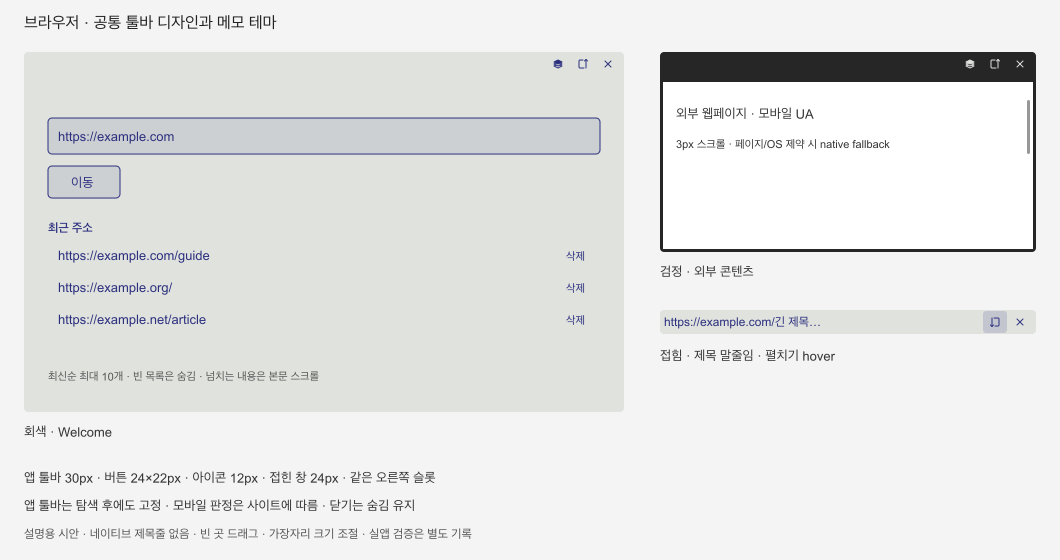
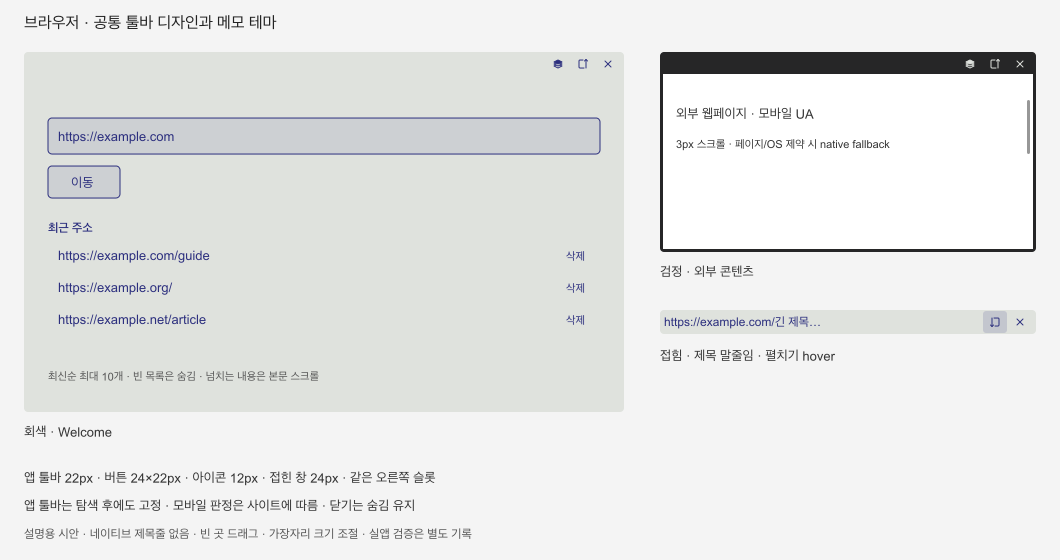
네 유형의 메모 툴바를 22px로 통일하고 브라우저 본문 여백을 제거

Changed region(s): [[0.6226, 0.1214, 0.9962, 0.1518], [0.0623, 0.85, 0.0934, 0.8804]]

diff --git a/ui/style.css b/ui/style.css
@@ -114,8 +114,8 @@ body.folded #toolbar-items { overflow: visible; }
   #controls button:focus-visible { outline-color: Highlight; }
 }
 
-/* Persistent toolbar row, shared by text, capture and terminal windows. */
-#controls { position: relative; top: auto; right: auto; flex: 0 0 30px; width: 100%; max-width: 100%; height: 30px; padding: 2px 3px; border-radius: 0; opacity: 1; pointer-events: auto; }
+/* Persistent toolbar row shared by all memo types. */
+#controls { position: relative; top: auto; right: auto; flex: 0 0 var(--toolbar-row-height); width: 100%; max-width: 100%; height: var(--toolbar-row-height); padding: 0 3px; border-radius: 0; opacity: 1; pointer-events: auto; }
 body #controls { opacity: 1; pointer-events: auto; }
 #chrome-title { display: none; min-width: 0; flex: 1; overflow: hidden; text-overflow: ellipsis; white-space: nowrap; font-size: 11px; }
 #toolbar-items { margin-left: auto; }
@@ -167,8 +167,7 @@ body.toolbar-collapsed header { height: 22px; min-height: 22px; }
 
 body.toolbar-collapsed > #controls { margin: 1px 0; }
 
-/* Keep the collapsed bar's icon geometry in both states. The remaining 8px
-   of the expanded row belongs to the content separator, below the buttons. */
+/* Both states use the same compact icon and button geometry. */
 #controls { --icon-size: 12px; padding: 0 3px; align-items: flex-start; }
 #controls button { height: 22px; min-height: 22px; padding: 0; }
 body.toolbar-collapsed #controls { align-items: flex-start; }
@@ -176,10 +175,7 @@ body.toolbar-collapsed #controls { align-items: flex-start; }
   background: color-mix(in srgb, var(--foreground) 16%, var(--background));
 }
 
-/* Text editing and capture chrome share the compact toolbar row. */
-
 /* One permanent editable surface; dirty state never changes the layout. */
-body.text-note:not(.toolbar-collapsed) #controls { flex-basis: 22px; height: 22px; }
 body.text-note:not(.folded) #viewport { padding-top: 0; }
 #editor { display: flex; flex-direction: column; height: auto; min-height: 100%; cursor: text; user-select: text; -webkit-user-select: text; }
 #editor .milkdown { display: flex; flex-direction: column; flex: 1; }
@@ -210,8 +206,6 @@ body.dirty #save { background: var(--panel); }
 .selection-format button[data-format=emphasis] { font-style: italic; }
 .selection-format button[data-format=strike_through] { text-decoration: line-through; }
 @media (forced-colors: active) { .selection-format button:focus-visible { outline-color: Highlight; } }
-/* Capture chrome follows the text reading row; contain preserves image aspect. */
-body.image-note:not(.toolbar-collapsed):not(.folded) #controls { flex-basis:22px; height:22px; }
 
 /* The native capture window adds toolbar space outside the original image. */
 body.image-note #memo-surface { border-width:0; }

diff --git a/ui/terminal.css b/ui/terminal.css
@@ -1,4 +1,4 @@
-html,body{width:100%;height:100%;overflow:hidden}body{cursor:default}header{height:30px;min-height:30px;display:flex;align-items:center;padding:0 8px;cursor:move;user-select:none}#title{font:var(--font-ui)/var(--line-ui) -apple-system,sans-serif;overflow:hidden;text-overflow:ellipsis;white-space:nowrap;max-width:calc(100% - 110px)}#status{padding:4px 8px;white-space:pre-wrap;overflow:auto;flex-shrink:0;max-height:50%}#status:empty{display:none}#terminal{flex:1;min-height:0;padding:3px 5px 5px;overflow:hidden;letter-spacing:0;cursor:text}.xterm{height:100%}.xterm-viewport{border-radius:0}#controls{opacity:1;pointer-events:auto}
+html,body{width:100%;height:100%;overflow:hidden}body{cursor:default}header{height:var(--toolbar-row-height);min-height:var(--toolbar-row-height);display:flex;align-items:center;padding:0 8px;cursor:move;user-select:none}#title{font:var(--font-ui)/var(--line-ui) -apple-system,sans-serif;overflow:hidden;text-overflow:ellipsis;white-space:nowrap;max-width:calc(100% - 110px)}#status{padding:4px 8px;white-space:pre-wrap;overflow:auto;flex-shrink:0;max-height:50%}#status:empty{display:none}#terminal{flex:1;min-height:0;padding:3px 5px 5px;overflow:hidden;letter-spacing:0;cursor:text}.xterm{height:100%}.xterm-viewport{border-radius:0}#controls{opacity:1;pointer-events:auto}
 
 [hidden]{display:none!important}
 #welcome{flex:1;min-height:0;overflow:auto;display:flex;flex-direction:column;padding:24px;box-sizing:border-box}
@@ -33,9 +33,6 @@ body.toolbar-collapsed header #controls { flex: 1; }
 
 header { align-items: flex-start; }
 
-/* Match the text reading edge without changing shared web chrome. */
-header { height:22px; min-height:22px; }
-header #controls { height:22px; flex-basis:22px; }
 #terminal { position:relative; padding:0 var(--memo-padding) var(--memo-padding); --terminal-background:#20252e; background:var(--terminal-background); }
 #terminal .xterm-viewport { background:var(--terminal-background); scrollbar-width:none; }
 #terminal .xterm-viewport::-webkit-scrollbar { width:0; height:0; }

diff --git a/ui/overlay-scrollbar.css b/ui/overlay-scrollbar.css
@@ -1,5 +1,4 @@
 /* Text surfaces: no dedicated scrollbar column or separator strip. */
-body:not(.image-note):not(.editing):not(.toolbar-collapsed) #controls { flex-basis: 22px; height: 22px; }
 body:not(.image-note):not(.editing):not(.folded) #viewport { padding-top: 0; scrollbar-width: none; }
 body:not(.image-note):not(.editing):not(.folded) #viewport::-webkit-scrollbar { width: 0; height: 0; }
 #viewport:focus-visible { outline: 1px solid var(--foreground); outline-offset: -2px; }

diff --git a/ui/web.css b/ui/web.css
@@ -22,7 +22,7 @@ body.toolbar-collapsed .resize { display: none; }
    WebKit may retain the root scroll offset after focus moves to a child view. */
 html { overflow: hidden; }
 #controls { position: fixed; inset: 0 0 auto; }
-main { margin-top: 30px; }
+main { margin-top: var(--toolbar-row-height); }
 
 #web-recent { margin-top: 20px; }
 #web-recent[hidden] { display: none; }

diff --git a/ui/tokens.css b/ui/tokens.css
@@ -2,6 +2,7 @@
   --font-ui: 11px;
   --line-ui: 1.4;
   --icon-size: 14px;
+  --toolbar-row-height: 22px;
   --toolbar-target: 24px;
   --action-height: 22px;
   --action-padding: 6px;

diff --git a/src-tauri/src/capture.rs b/src-tauri/src/capture.rs
@@ -1,4 +1,5 @@
 //! Frozen screen selection; only app-created PNGs are exposed to note windows.
+use crate::sizing::TOOLBAR_ROW_HEIGHT;
 use base64::{engine::general_purpose::STANDARD, Engine};
 use serde::{Deserialize, Serialize};
 use std::{
@@ -743,9 +744,8 @@ fn finish_selection(
     }
 }
 // Capture coordinates describe the image, not the enclosing toolbar window.
-pub const IMAGE_TOOLBAR_HEIGHT: f64 = 22.0;
 fn image_toolbar_below(image_y: i32, work_top: i32, scale: f64) -> bool {
-    f64::from(image_y) - f64::from(work_top) < IMAGE_TOOLBAR_HEIGHT * scale
+    f64::from(image_y) - f64::from(work_top) < TOOLBAR_ROW_HEIGHT * scale
 }
 pub fn image_window_bounds(bounds: &ImageNote, position_scale: f64, below: bool) -> ImageNote {
     ImageNote {
@@ -754,10 +754,10 @@ pub fn image_window_bounds(bounds: &ImageNote, position_scale: f64, below: bool)
             - if below {
                 0.0
             } else {
-                IMAGE_TOOLBAR_HEIGHT * position_scale
+                TOOLBAR_ROW_HEIGHT * position_scale
             },
         width: bounds.width,
-        height: bounds.height + IMAGE_TOOLBAR_HEIGHT,
+        height: bounds.height + TOOLBAR_ROW_HEIGHT,
     }
 }
 pub fn place(win: &WebviewWindow, bounds: &ImageNote) -> Result<(), String> {
@@ -1058,13 +1058,13 @@ mod tests {
             };
             let frame = image_window_bounds(&image, 2.0, false);
             assert_eq!(frame.x, image.x);
-            assert_eq!(frame.y + IMAGE_TOOLBAR_HEIGHT * 2.0, image.y);
+            assert_eq!(frame.y + TOOLBAR_ROW_HEIGHT * 2.0, image.y);
             assert_eq!(frame.width, image.width);
-            assert_eq!(frame.height - IMAGE_TOOLBAR_HEIGHT, image.height);
+            assert_eq!(frame.height - TOOLBAR_ROW_HEIGHT, image.height);
             let below = image_window_bounds(&image, 2.0, true);
             assert_eq!(below.y, image.y);
             assert_eq!(below.width, image.width);
-            assert_eq!(below.height - IMAGE_TOOLBAR_HEIGHT, image.height);
+            assert_eq!(below.height - TOOLBAR_ROW_HEIGHT, image.height);
         }
     }
     #[test]

diff --git a/src-tauri/src/web.rs b/src-tauri/src/web.rs
@@ -369,11 +369,12 @@ fn content_bounds(chrome: &tauri::Webview) -> Result<tauri::Rect, String> {
             .to_logical::<f64>(chrome.window().scale_factor().map_err(err)?),
         0.0,
     );
+    let top = inset + crate::sizing::TOOLBAR_ROW_HEIGHT;
     Ok(tauri::Rect {
-        position: tauri::LogicalPosition::new(3.0, 30.0 + inset).into(),
+        position: tauri::LogicalPosition::new(3.0, top).into(),
         size: tauri::LogicalSize::new(
             (size.width - 6.0).max(1.0),
-            (size.height - inset - 33.0).max(1.0),
+            (size.height - top - 3.0).max(1.0),
         )
         .into(),
     })
@@ -555,21 +556,18 @@ pub(crate) fn create_presented(
         })
         .on_new_window(|_, _| tauri::webview::NewWindowResponse::Deny)
         .on_download(|_, _| false);
-        let size = w
-            .inner_size()
-            .map_err(err)?
-            .to_logical::<f64>(w.scale_factor().map_err(err)?);
-        let content = match w.as_ref().window().add_child(
-            content,
-            tauri::LogicalPosition::new(0.0, 30.0),
-            tauri::LogicalSize::new(size.width, (size.height - 30.0).max(1.0)),
-        ) {
+        let content = match content_bounds(w.as_ref()).and_then(|bounds| {
+            w.as_ref()
+                .window()
+                .add_child(content, bounds.position, bounds.size)
+                .map_err(err)
+        }) {
             Ok(content) => content,
             Err(error) => {
                 if previous.is_none() {
                     let _ = w.destroy();
                 }
-                return Err(err(error));
+                return Err(error);
             }
         };
         // Reapply after attachment: Wry now resolves the child's actual parent.

diff --git a/src-tauri/build.rs b/src-tauri/build.rs
@@ -1,4 +1,16 @@
 fn main() {
+    // Native child WebViews and capture frames use the same logical row as CSS.
+    let tokens = include_str!("../ui/tokens.css");
+    let row_height = tokens
+        .lines()
+        .find_map(|line| line.trim().strip_prefix("--toolbar-row-height:"))
+        .and_then(|value| value.trim().strip_suffix("px;"))
+        .and_then(|pixels| pixels.parse::<u16>().ok())
+        .filter(|height| *height > 0)
+        .expect("--toolbar-row-height must be a positive integer in CSS pixels");
+    let out_dir = std::path::PathBuf::from(std::env::var_os("OUT_DIR").unwrap());
+    std::fs::write(out_dir.join("toolbar_height.rs"), format!("{row_height}.0")).unwrap();
+    println!("cargo:rerun-if-changed=../ui/tokens.css");
     println!("cargo:rerun-if-env-changed=TAURI_UPDATER_PUBLIC_KEY");
     println!("cargo:rerun-if-env-changed=AGENT_GIBBON_SENTRY_DSN");
     let git = |args: &[&str]| {

diff --git a/src-tauri/src/sizing.rs b/src-tauri/src/sizing.rs
@@ -1,6 +1,8 @@
 use std::{collections::BTreeMap, sync::Mutex};
 use tauri::{Emitter, LogicalSize, Manager, State, WebviewWindow};
 
+pub const TOOLBAR_ROW_HEIGHT: f64 = include!(concat!(env!("OUT_DIR"), "/toolbar_height.rs"));
+
 // Logical pixels, shared by natural-content measurement and editor entry.
 pub const AUTO_HEIGHT_MAX: f64 = 420.0;
 

diff --git a/docs/verification/issue218-shared-toolbar.md b/docs/verification/issue218-shared-toolbar.md
@@ -1,0 +1,40 @@
+# #218 공통 툴바 행과 웹 본문 시작 위치
+
+기준 커밋 `16d1b2addff53526651441535b2d2b101a5f4f20`, 작업 루트 `/Users/egoinglee/.codex/worktrees/eb0e/agent-gibbon`, 브랜치 `codex/38-shared-memo-toolbar`. 사용자 첨부에서 웹 도구 버튼 바로 아래에 표시된 띠를 확인했다. 기존 웹의 시작 화면과 외부 콘텐츠는 모두 30px를 확보했고, 버튼과 다른 메모의 행은 22px였다.
+
+기존 toolbar.js와 유형별 도구 구성을 유지했다. 네 유형의 행과 웹 시작 화면이 CSS 토큰을 사용하고 Rust 빌드는 같은 값으로 캡처 창과 외부 WebView 좌표를 계산한다. child 생성·재부착·리사이즈·배율 변경에 기존 네이티브 inset과 좌우·하단 3px 정책을 적용한다.
+
+## Chromium 158 측정
+
+144×80 및 300×100 논리 px에서 `node scripts/toolbar-layout-smoke.mjs`로 DOM 경계를 측정했다. 터미널 실행부와 네이티브 호출은 대역을 썼다. 창 테두리에 따라 행의 시작점이 1px 달라도 행 끝에서 본문까지의 간격은 같다.
+
+| 유형 | 행 시작 y | 행 높이 | 본문 시작 y | 행 아래 간격 |
+|---|---:|---:|---:|---:|
+| 텍스트 | 1 | 22 | 23 | 0 |
+| 이미지 | 0 | 22 | 22 | 0 |
+| 터미널 | 1 | 22 | 23 | 0 |
+| 웹 시작 화면 | 0 | 22 | 22 | 0 |
+
+`web-toolbar-smoke.mjs`에서 5개 테마 × 3개 너비로 주소 입력 후 시작 화면이 사라져도 행 y=0, 높이 22를 유지하고, 핀·접기·펼치기·hover 상태가 동작함을 확인했다. `toolbar-focus-smoke.mjs`로 네 유형의 Tab/Shift+Tab과 강제 색상 표시, `toolbar-work-area-smoke.mjs`로 드래그·더블클릭·버튼 분리를 검증했다.
+
+`pnpm test` Rust 303 통과·1 ignored, UI 215 통과. `pnpm check`, `cargo fmt --manifest-path src-tauri/Cargo.toml --check`, `pnpm dev:build` 통과. 공통 툴바와 웹 SVG를 PNG로 렌더링해 확인했다. 개발 인스턴스는 `dev-c11bf1af1b6708ea9f381673`, 실행 파일은 작업 루트의 `src-tauri/target/debug/agent-gibbon`이다.
+
+## 실제 macOS ARM64 창 측정
+
+2× 화면에서 전용 개발 CLI의 `open/web/inspect`로 각 메모 ID·인스턴스·가시성 및 텍스트 본문/이미지 메타데이터/터미널 제목/웹 URL을 확인했다. PID 94319의 실제 실행 경로를 `ps`로 확인하고, PID와 메모 ID가 일치하는 네이티브 창 제목으로 AX 요소와 CoreGraphics 창 번호를 대조했다. 창별 `screencapture -x -o -l <창번호>`를 사용했다. 다음 값은 창 상단 기준의 논리 px다.
+
+| 실제 창 | 창 번호 | 행 시작 | 행 높이 | 본문 시작 | 아래 간격 |
+|---|---:|---:|---:|---:|---:|
+| [텍스트](assets/issue218/text.png) | 85395 | 1 | 22 | 23 | 0 |
+| [이미지](assets/issue218/image.png) | 85392 | 0 | 22 | 22 | 0 |
+| [터미널 시작 화면](assets/issue218/terminal.png) | 85506 | 1 | 22 | 23 | 0 |
+| [웹 시작 화면](assets/issue218/welcome.png) | 85507 | 0 | 22 | 22 | 0 |
+| [웹 첫 페이지](assets/issue218/first.png) | 85551 | 0 | 22 | 22 | 0 |
+| [링크 탐색 후](assets/issue218/next.png) | 85551 | 0 | 22 | 22 | 0 |
+| [240×160 최소 웹 창](assets/issue218/small.png) | 85551 | 0 | 22 | 22 | 0 |
+
+웹은 `127.0.0.1`의 여백 없는 HTTP 페이지를 개발 CLI로 열고, 실제 WebView의 링크를 눌러 다음 페이지로 이동했다. 각각 현재 URL을 확인한 후 측정했다. 600×400에서 외부 WebView는 594×375, 240×160에서 234×135였다. 좌우·하단 3px 크기 조절 영역을 유지한다. [측정 원본과 창 출처](assets/issue218/measurements.json).
+
+이미지와 터미널은 이 인스턴스에 만든 합성 저장 레코드를 앱에서 복원해 열었다. 터미널 본문은 작업 시작 화면으로 측정했다. 실제 캡처 제스처와 PTY 실행, 물리 키 입력·드래그·혼합 DPI·Intel·Windows는 이번 네이티브 검사에서 수행하지 않았다. 웹 주소 입력란의 AX 값 설정 시도는 입력값으로 반영되지 않아 폼 제출은 Chromium에서만 확인했다. 네이티브 웹 탐색은 CLI 최초 열기와 실제 페이지 링크 이동으로 확인했다. 고유 검증창을 숨긴 뒤 해당 바이너리 PID 94319와 이번 HTTP 서버 PID 96527을 종료했다.
+
+Conf 5 (macOS ARM64에서 네 유형의 실제 간격과 웹 탐색 및 최소 크기), Risk Low (로컬 표시와 WebView 좌표 변경).
